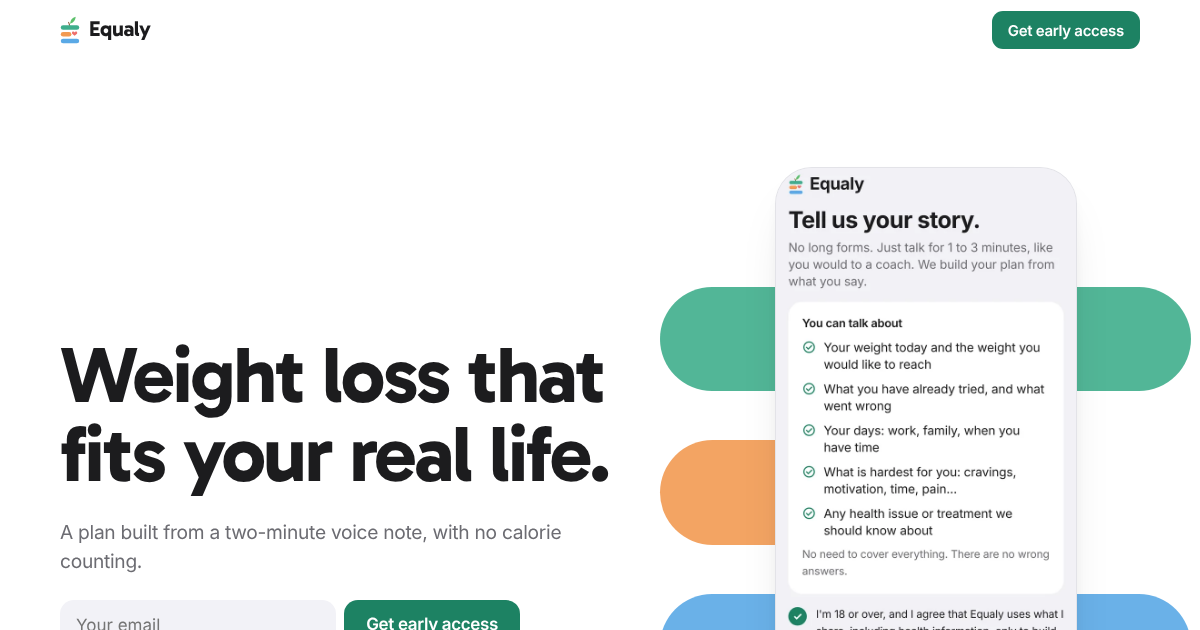
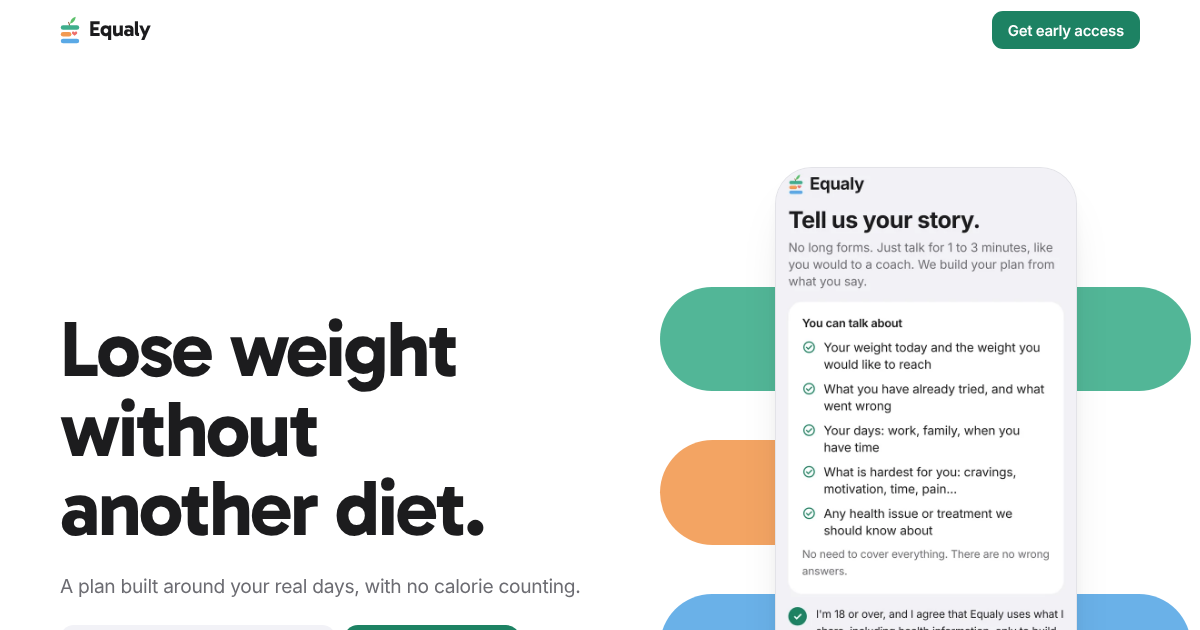
Landing page: persona copy (diet history, no gym, UK units), new app screens
Claude-Session: https://claude.ai/code/session_01PDenpA9J81QE1VLJMm5i4Z

Changed region(s): [[0.0308, 0.5127, 0.5242, 1.0]]

diff --git a/index.html b/index.html
@@ -16,9 +16,9 @@
 <link rel="preload" href="fonts/gabarito-700.woff2" as="font" type="font/woff2" crossorigin>
 <script type="application/ld+json">{"@context":"https://schema.org","@type":"MobileApplication","name":"Equaly","operatingSystem":"iOS","applicationCategory":"HealthApplication","description":"A weight loss coaching app: a plan built from a two-minute voice note, with daily walks, simple portions and a coach for hard evenings. No calorie counting.","url":"https://getequaly.com/","offers":[{"@type":"Offer","price":"0","priceCurrency":"GBP","name":"Free"},{"@type":"Offer","price":"14.99","priceCurrency":"GBP","name":"Pro, monthly"}],"publisher":{"@type":"Organization","name":"Equaly","email":"hello@getequaly.com","url":"https://getequaly.com/"}}</script>
[1 lines of base64/hex data omitted]
-<title>Equaly: weight loss that fits your real life</title>
+<title>Equaly: lose weight without another diet</title>
 <meta name="description" content="Tell Equaly about your days in a two-minute voice note and get a plan built around them: short walks, simpler plates and a coach for the hard evenings. No calorie counting. Free on iPhone.">
-<meta property="og:title" content="Equaly: weight loss that fits your real life">
+<meta property="og:title" content="Equaly: lose weight without another diet">
 <meta property="og:description" content="A plan built from a two-minute voice note, by a coach who has worked one-on-one with more than 100 people. No calorie counting. Free on iPhone, with 7 days of Pro included.">
 <meta name="claude:viewport-fit-sides" content="cover">
 <!-- TikTok Pixel: paste your snippet from TikTok Events Manager here -->
@@ -107,6 +107,7 @@
 
   /* How it works */
   .head{display:flex;flex-direction:column;gap:14px;margin-bottom:clamp(40px,6vw,64px);max-width:40em}
+  .story .head{margin-bottom:0;max-width:44em}
   .steps{display:grid;grid-template-columns:repeat(3,minmax(0,1fr));gap:clamp(24px,4vw,48px);list-style:none;margin:0;padding:0}
   .steps li{display:flex;flex-direction:column;gap:12px}
   .steps .phone{--w:250px;margin:0 auto 20px}
@@ -207,8 +208,8 @@
   <section class="hero">
     <div class="wrap">
       <div class="copy">
-        <h1>Weight loss that fits your real life.</h1>
-        <p class="lead">A plan built from a two-minute voice note, with no calorie counting.</p>
+        <h1>Lose weight without another diet.</h1>
+        <p class="lead">A plan built around your real days, with no calorie counting.</p>
         <div>
           <form class="signup" data-form id="join" novalidate>
             <div class="field">
@@ -229,11 +230,21 @@
     </div>
   </section>
 
+  <section class="story">
+    <div class="wrap">
+      <div class="head">
+        <h2>You've lost weight before. Keeping it off is the hard part.</h2>
+        <p class="lead">A strict plan works for a few weeks. Then a bad week comes, the weight comes back, and it feels like your fault. Most people who lose weight regain it, so the plan has to survive the bad weeks too.</p>
+        <p class="lead">With Equaly, a slip changes nothing. The plan picks up the next morning, and you don't start again on Monday.</p>
+      </div>
+    </div>
+  </section>
+
   <section class="grey" id="how">
     <div class="wrap">
       <div class="head">
         <h2>How it works</h2>
-        <p class="lead">No forms and no meal diary. Two minutes to start, then a few minutes a day.</p>
+        <p class="lead">Two minutes to start, then a few minutes a day. Everything happens at home or on a walk, with nobody watching.</p>
       </div>
       <ol class="steps">
         <li>
@@ -274,6 +285,9 @@
           <div class="fact">
             <div><h3>A plan that moves with you</h3><p>When the walks get easy, the plan steps up. On a bad week, it gets lighter.</p></div>
           </div>
+          <div class="fact">
+            <div><h3>No gym</h3><p>Walks and short sessions you can do in your living room, some of them sitting down.</p></div>
+          </div>
         </div>
       </div>
     </div>
@@ -287,7 +301,7 @@
       </div>
       <div class="quotes">
         <figure>
-          <span class="res">−13 kg in 4 months</span>
+          <span class="res">−13 kg (2 st) in 4 months</span>
           <blockquote>"I thought my YouTube workouts were enough, but they didn't fit my schedule or my needs. Ben adapted everything to me, and I feel so much better."</blockquote>
           <figcaption><b>Cindy</b>, 25</figcaption>
         </figure>
@@ -361,7 +375,7 @@
         <details><summary>I haven't exercised in years. Is it for me?</summary><p>Yes, that's who it's built for. Sessions start at 5 minutes, they're low impact, and some can be done sitting down. Walking is the base of every plan.</p></details>
         <details><summary>Is it really free?</summary><p>Yes. The free version has no time limit: your plan, daily check-ins, walks, starter sessions, weight tracking and 3 coach messages a week. Pro unlocks the rest.</p></details>
         <details><summary>Will I be charged after the 7 days?</summary><p>No. Your 7 days of Pro need no card. When they end, Pro switches off and you carry on with the free version. You only pay if you choose to subscribe: £14.99 a month, cancel any time.</p></details>
-        <details><summary>How fast will I lose weight?</summary><p>At a healthy pace of about 0.5 to 1 kg a week, with a first goal of around 5% of your weight. That's slower than a crash diet, and it's why it lasts.</p></details>
+        <details><summary>How fast will I lose weight?</summary><p>At a healthy pace of about 0.5 to 1 kg (1 to 2 lb) a week, with a first goal of around 5% of your weight. That's slower than a crash diet, and it's why it lasts.</p></details>
         <details><summary>I have a health condition. Can I use it?</summary><p>Talk to your doctor before you start, especially if you take treatment for diabetes, have heart problems or high blood pressure, are pregnant or had recent surgery. Equaly is a wellbeing coach and does not give medical advice.</p></details>
         <details><summary>Is my data safe?</summary><p>Your data is stored in London. It is never sold and never used for advertising. You can download or delete all of it from the app at any time.</p></details>
         <details><summary>iPhone or Android?</summary><p>Equaly launches on iPhone first. Android comes next.</p></details>
